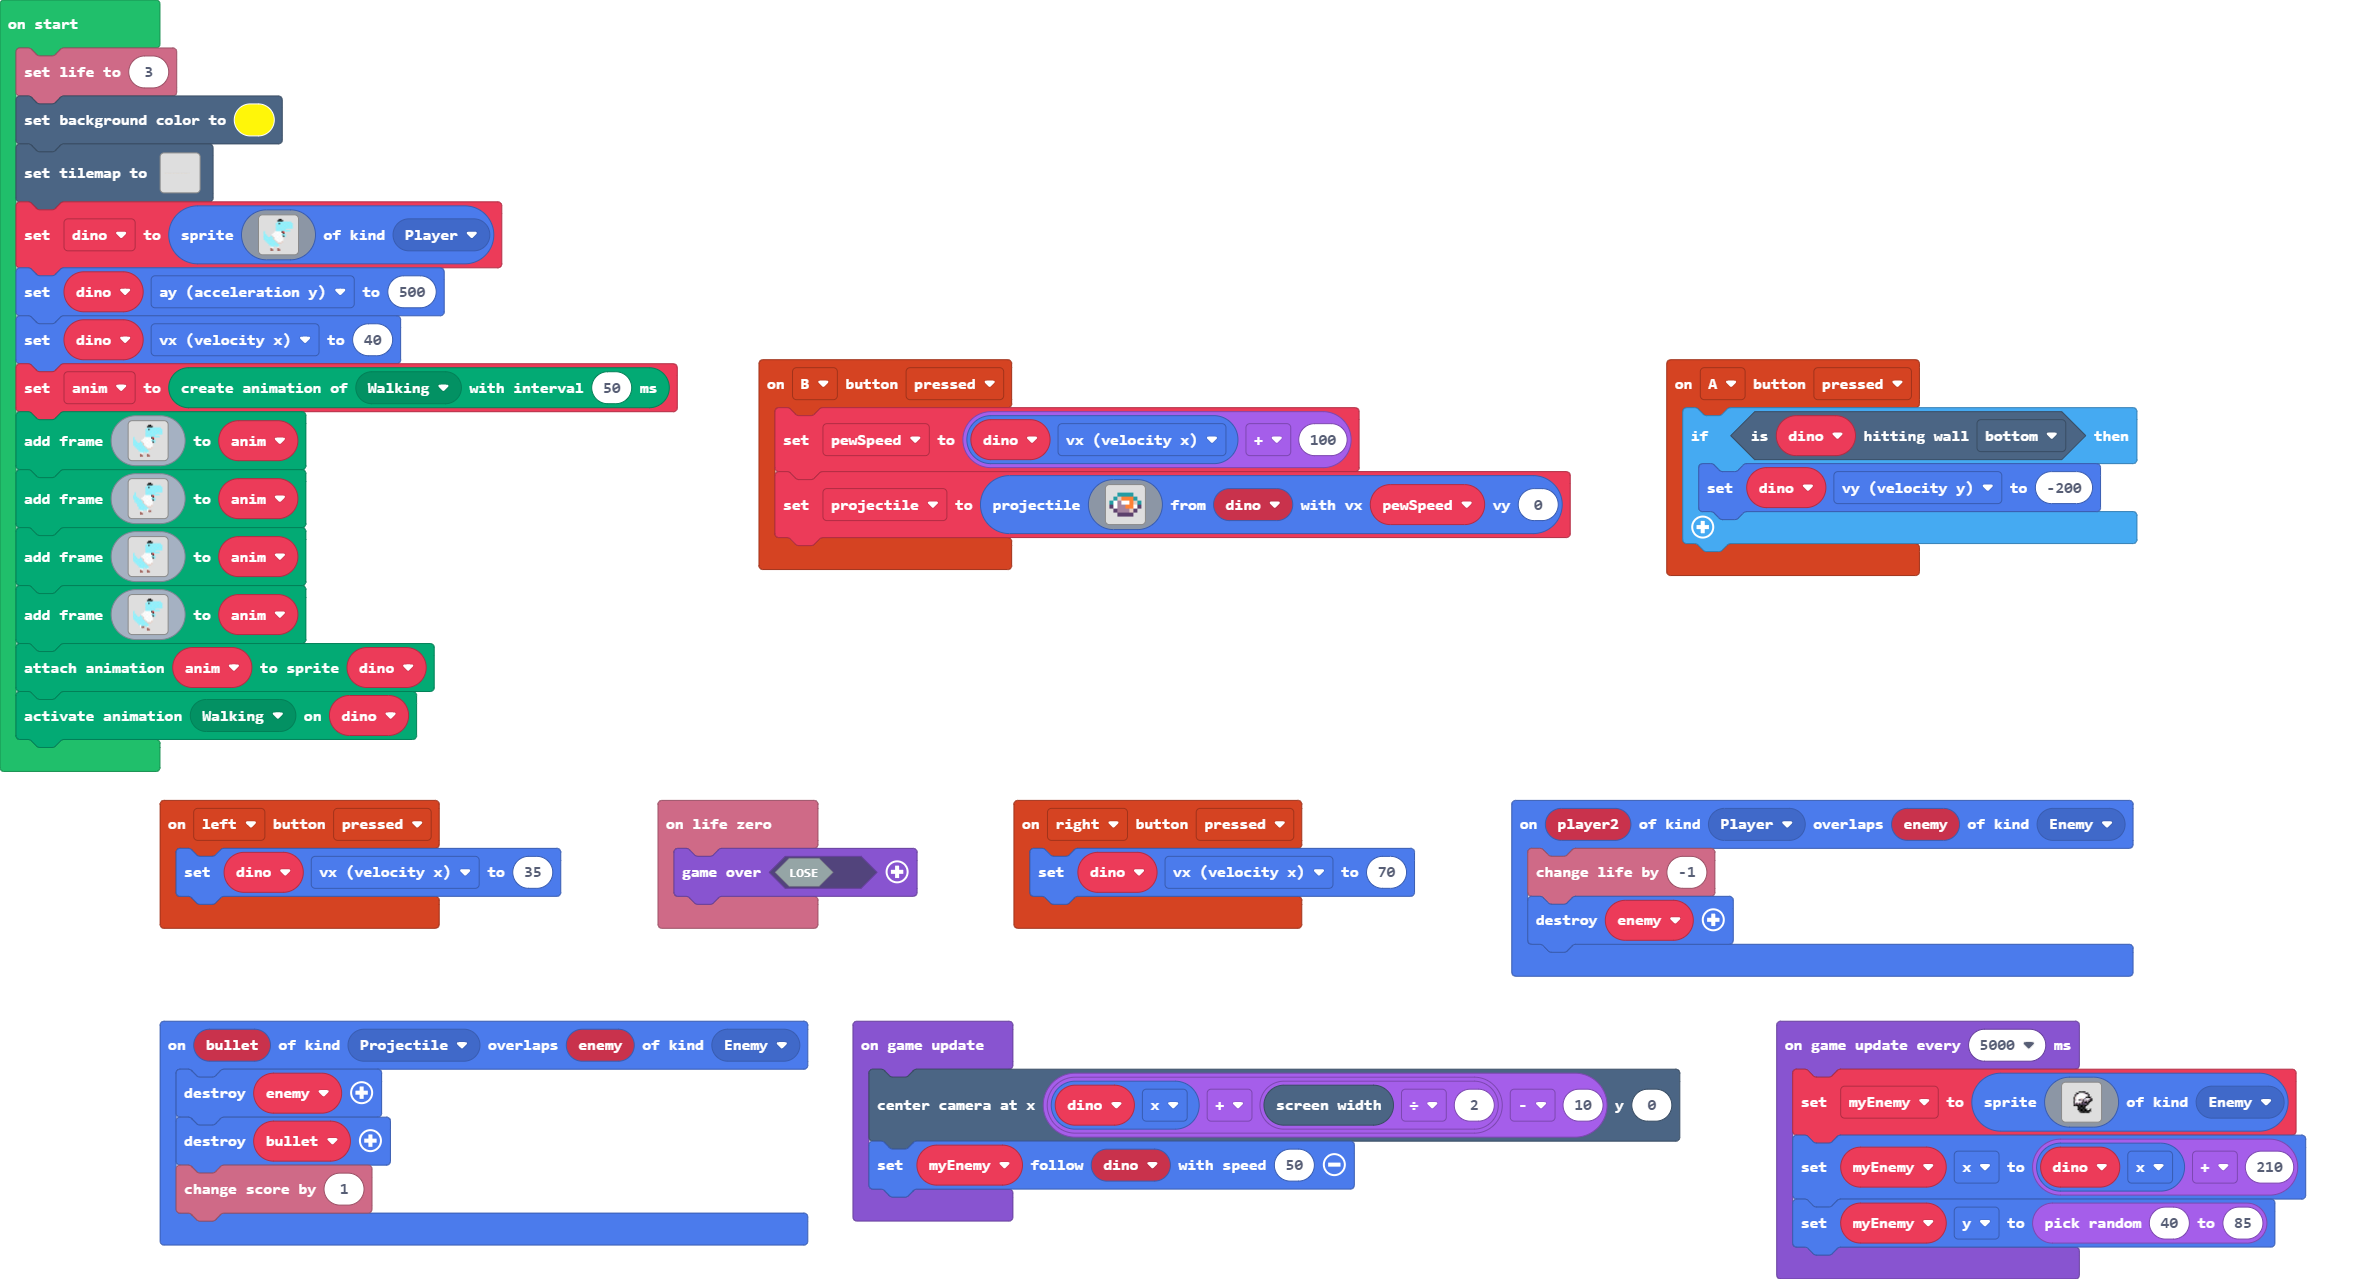
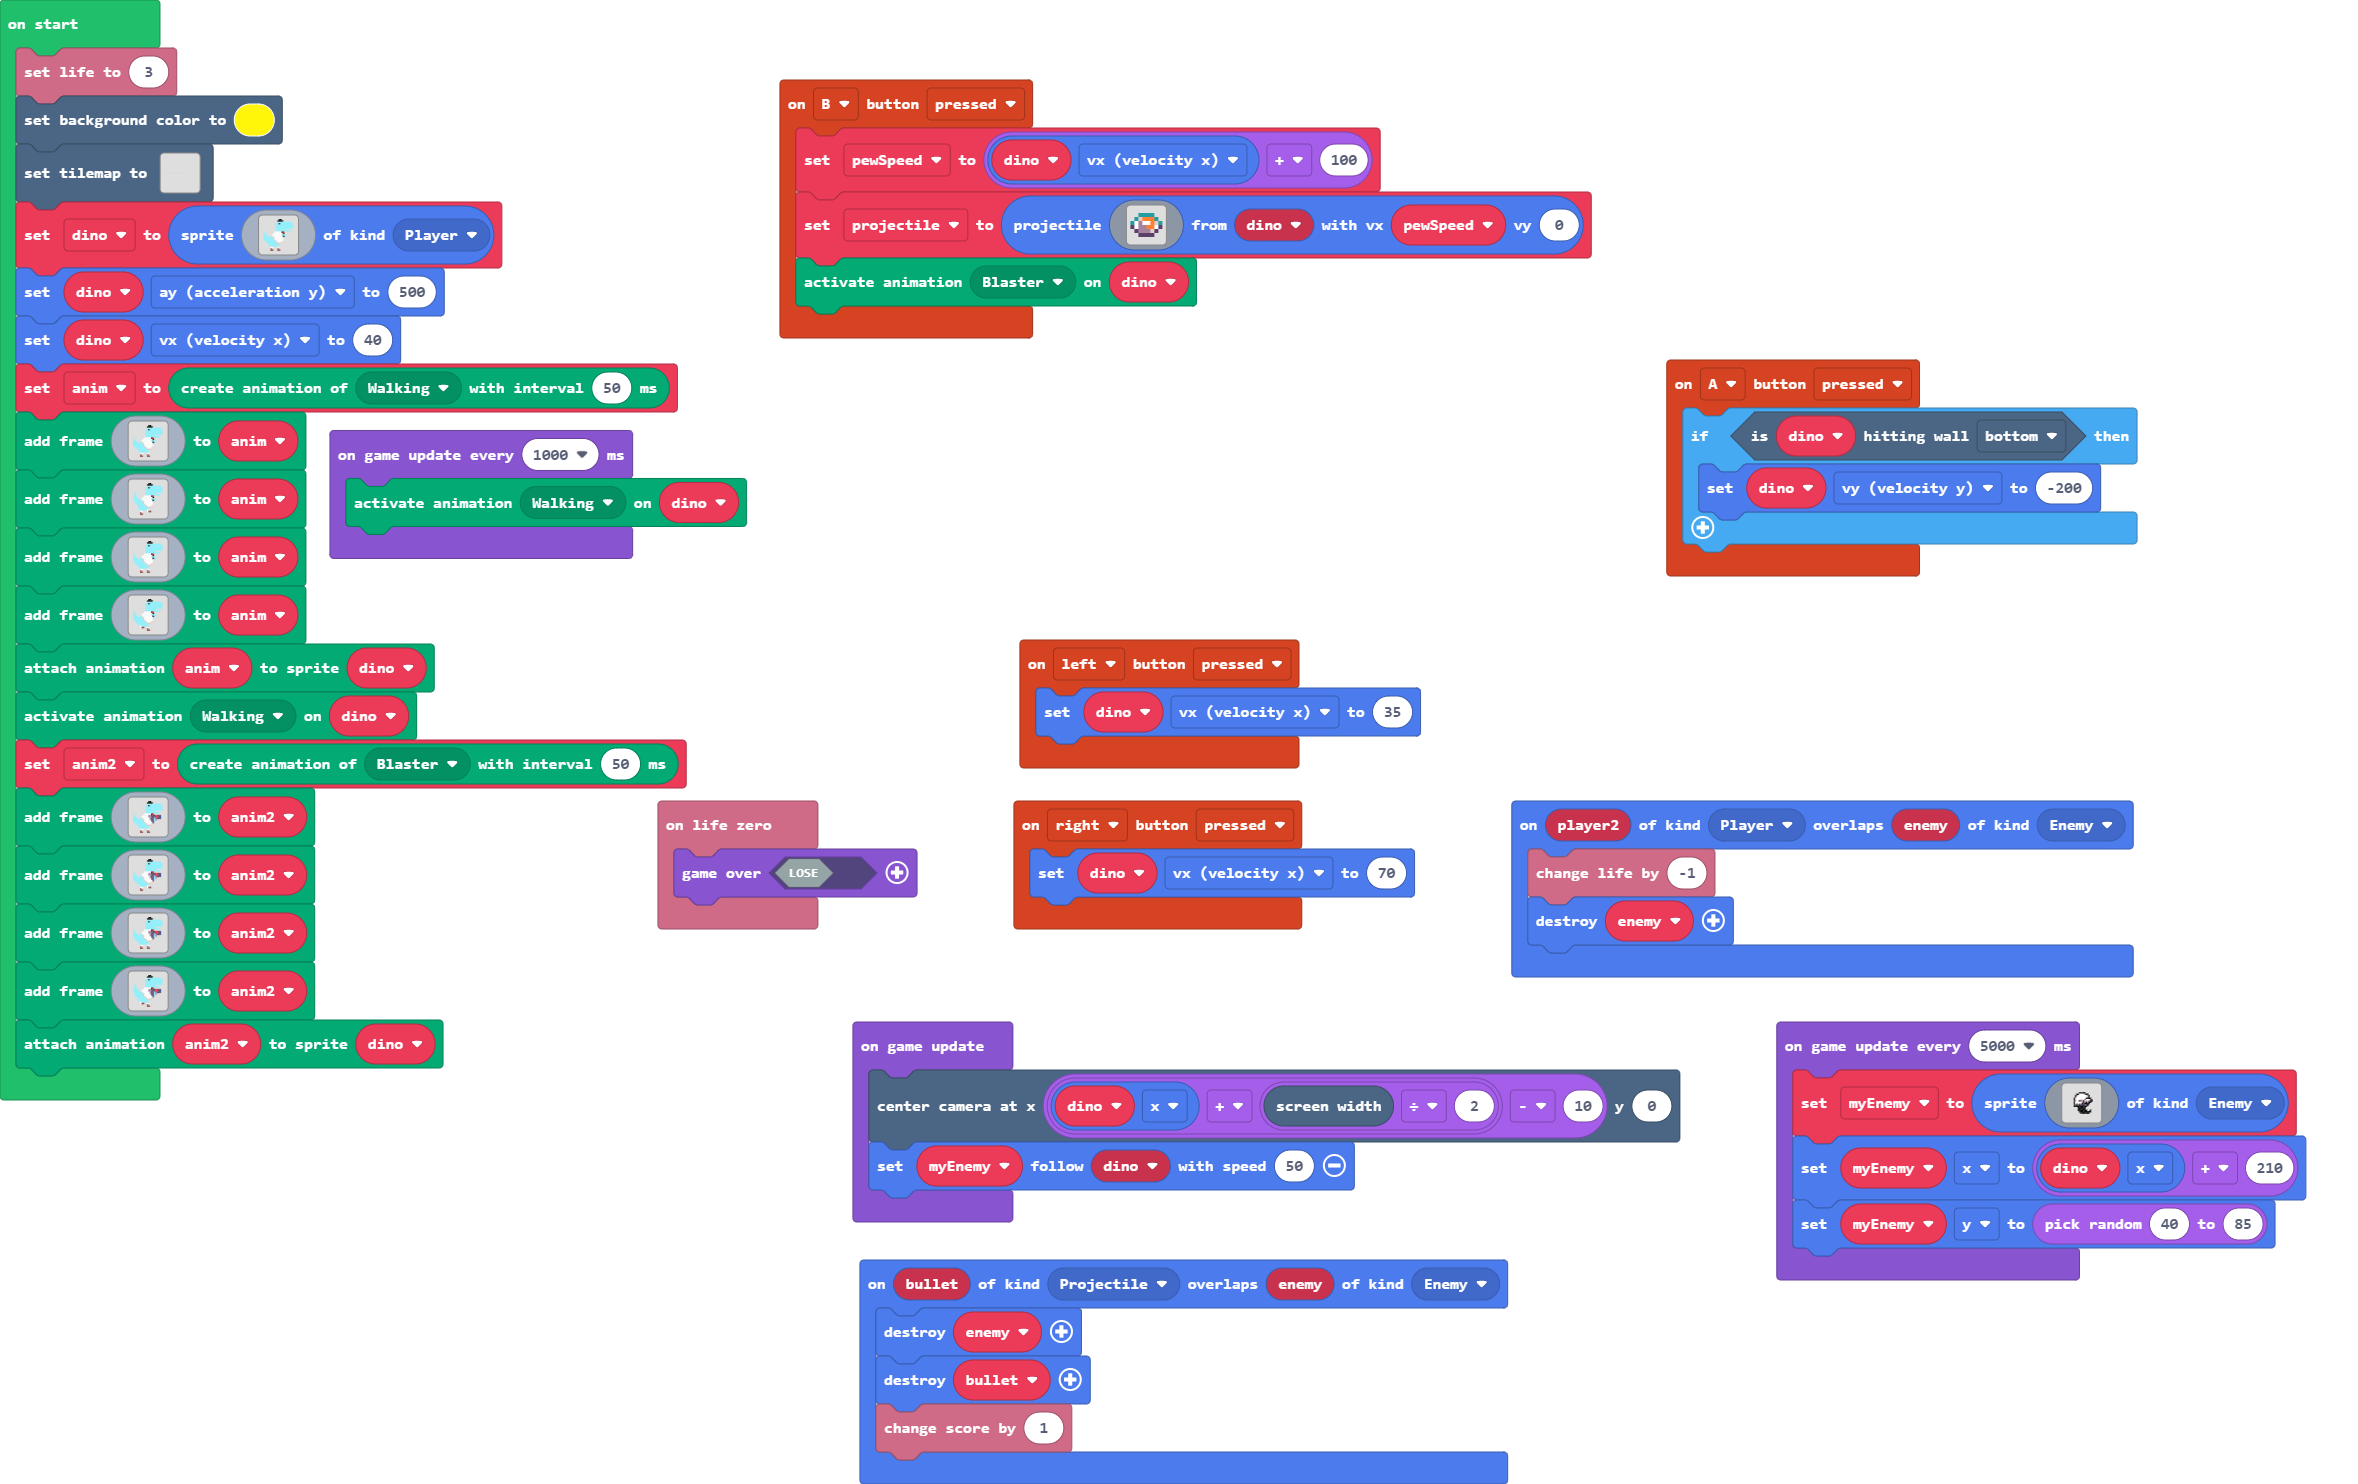
Update main.blocks, main.ts

diff --git a/main.ts b/main.ts
@@ -1,7 +1,8 @@
 enum ActionKind {
     Walking,
     Idle,
-    Jumping
+    Jumping,
+    Blaster
 }
 sprites.onOverlap(SpriteKind.Projectile, SpriteKind.Enemy, function (bullet, enemy) {
     enemy.destroy()
@@ -18,6 +19,7 @@ controller.B.onEvent(ControllerButtonEvent.Pressed, function () {
         . c b b b d c . 
         . . c c c c . . 
         `, dino, pewSpeed, 0)
+    animation.setAction(dino, ActionKind.Blaster)
 })
 controller.A.onEvent(ControllerButtonEvent.Pressed, function () {
     if (dino.isHittingTile(CollisionDirection.Bottom)) {
@@ -174,6 +176,108 @@ anim.addAnimationFrame(img`
     `)
 animation.attachAnimation(dino, anim)
 animation.setAction(dino, ActionKind.Walking)
+let anim2 = animation.createAnimation(ActionKind.Blaster, 50)
+anim2.addAnimationFrame(img`
+    ...........ff........
+    ..........ffff.......
+    ..........9999999999.
+    .........99f999999999
+    .........999999999999
+    .........999999999999
+    .........999999999999
+    .........9999999.....
+    .........9999999999..
+    9.......11111f2......
+    9......1111bbccc22cc.
+    99....11111bbccc22c8.
+    999..9d11111bcc9bccc.
+    9999999d1111bcc9b....
+    9999999d11111cc9.....
+    .9999999d11111c......
+    ..9999999d111d.......
+    ...9999999ddd........
+    ....9999999..........
+    .....999.99..........
+    .....11...1..........
+    .....e....e..........
+    .....ee...ee.........
+    `)
+anim2.addAnimationFrame(img`
+    ...........ff........
+    ..........ffff.......
+    ..........9999999999.
+    .........99f999999999
+    .........999999999999
+    .........999999999999
+    .........999999999999
+    .........9999999.....
+    .........9999999999..
+    9.......11111f2......
+    9......1111bbccc22cc.
+    99....11111bbccc22c8.
+    999..9d11111bcc9bccc.
+    9999999d1111bcc9b....
+    9999999d11111cc9.....
+    .9999999d11111c......
+    ..9999999d111d.......
+    ...9999999ddd........
+    ....9999999..........
+    .....999.91..........
+    .....11...1ee........
+    .....e...............
+    .....ee..............
+    `)
+anim2.addAnimationFrame(img`
+    ...........ff........
+    ..........ffff.......
+    ..........9999999999.
+    .........99f999999999
+    .........999999999999
+    .........999999999999
+    .........999999999999
+    .........9999999.....
+    .........9999999999..
+    9.......11111f2......
+    9......1111bbccc22cc.
+    99....11111bbccc22c8.
+    999..9d11111bcc9bccc.
+    9999999d1111bcc9b....
+    9999999d11111cc9.....
+    .9999999d11111c......
+    ..9999999d111d.......
+    ...9999999ddd........
+    ....9999999..........
+    .....999.99..........
+    .....11...1..........
+    .....e....e..........
+    .....ee...ee.........
+    `)
+anim2.addAnimationFrame(img`
+    ...........ff........
+    ..........ffff.......
+    ..........9999999999.
+    .........99f999999999
+    .........999999999999
+    .........999999999999
+    .........999999999999
+    .9.......9999999.....
+    .9.......9999999999..
+    999.....11111f2......
+    999....1111bbccc22cc.
+    9999..11111bbccc22c8.
+    .99999d11111bcc9bccc.
+    .999999d1111bcc9b....
+    .999999d11111cc9.....
+    ..999999d11111c......
+    ...999999d111d.......
+    ....999999ddd........
+    ....9999999..........
+    .....199.99..........
+    .....1ee..1..........
+    ..........e..........
+    ..........ee.........
+    `)
+animation.attachAnimation(dino, anim2)
 game.onUpdate(function () {
     scene.centerCameraAt(dino.x + scene.screenWidth() / 2 - 10, 0)
     myEnemy.follow(dino, 50)
@@ -207,4 +311,7 @@ game.onUpdateInterval(5000, function () {
         `, SpriteKind.Enemy)
     myEnemy.x = dino.x + 210
     myEnemy.y = randint(40, 85)
+})
+game.onUpdateInterval(1000, function () {
+    animation.setAction(dino, ActionKind.Walking)
 })
